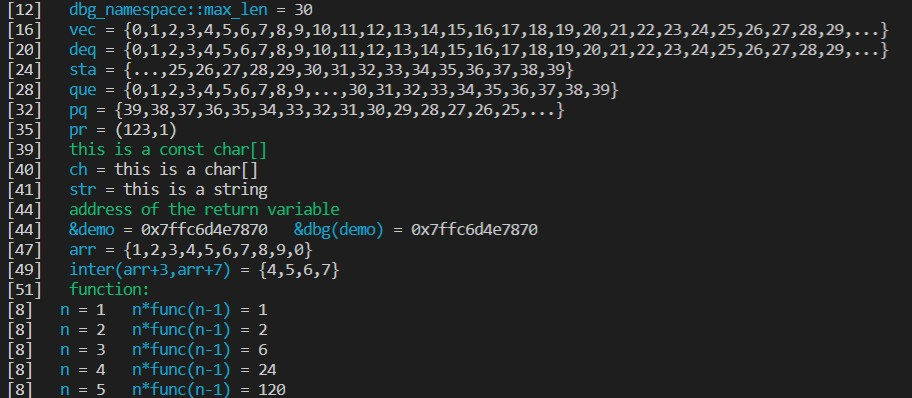
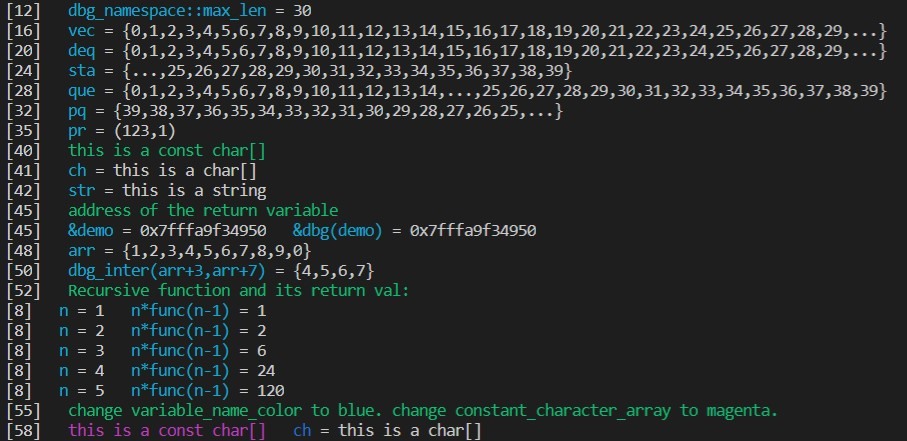
新增改变颜色的方法，修改demo，dbg_func头部添加注释

Changed region(s): [[0.0, 0.0, 0.9879, 1.0]]

diff --git a/src/demo.cpp b/src/demo.cpp
@@ -34,9 +34,10 @@ int main() {
     pair<int, bool> pr(123, 9.87);
     dbg(pr);
 
-    string str = "this is a string";
+    const char cch[] = "this is a const char[]";
     char ch[] = "this is a char[]";
-    dbg("this is a const char[]");
+    string str = "this is a string";
+    dbg(cch);
     dbg(ch);
     dbg(str);
 
@@ -46,10 +47,13 @@ int main() {
     int arr[10] = {1, 2, 3, 4, 5, 6, 7, 8, 9, 0};
     dbg(arr);
 
-    dbg(inter(arr + 3, arr + 7));
+    dbg(dbg_inter(arr + 3, arr + 7));
 
-    dbg("function:");
+    dbg("Recursive function and its return val:");
     func(5);
 
-    dbg(string("test),"));
+    dbg("change variable_name_color to blue. change constant_character_array to magenta.");
+    dbg_namespace::variable_name_color = dbg_namespace::clr::blue;
+    dbg_namespace::constant_character_array = dbg_namespace::clr::magenta;
+    dbg(cch, ch);
 }

diff --git a/README.md b/README.md
@@ -1,7 +1,12 @@
 # dbg_func
 a macro that can print values and their names  
 提供一个简单的方法在输出调试法中输出数据  
+Tested on MSVC 14.26 + Windows 10 & GCC 7.5.0 + Ubuntu 18.04  
 **使用的时候请标明且附上github地址**
+
+## Demo
+* **[demo.cpp](src/demo.cpp):**
+    ![demo_pic](pic/demo_pic.jpg)
 
 ## 功能
 * 提供了一个宏`dbg(...)`来往标准错误流中输出数据  
@@ -21,9 +26,6 @@ a macro that can print values and their names
     + 若最后一个参数为左值返回左值引用，为右值则返回右值引用
     + 返回类型的判断代码为 `decltype((__VA_ARGS__))`
 
-## Demo
-* **src/demo.cpp:**
-    ![demo_pic](pic/demo_pic.jpg)
 
 ## 使用方法
 * 下载`src/dbg_func`
@@ -65,7 +67,7 @@ a macro that can print values and their names
 ## Tips
 * `dbg_namespace::max_len`指定了数组或STL容器的最大显示长度，默认为30
     + 在include本库前，添加 `#define DBG_LEN 50` 可以更改 `dbg_namespace::max_len` 为 50
-* ~~可自行更改`\033`代码 改变默认颜色~~ (颜色模块已重写，更改地方稍后添加)
+* 可自行改变默认颜色，详见demo
 * 若想支持自定义类，可直接重载输出运算符
 
 ## 已知 issue 及 TODO
